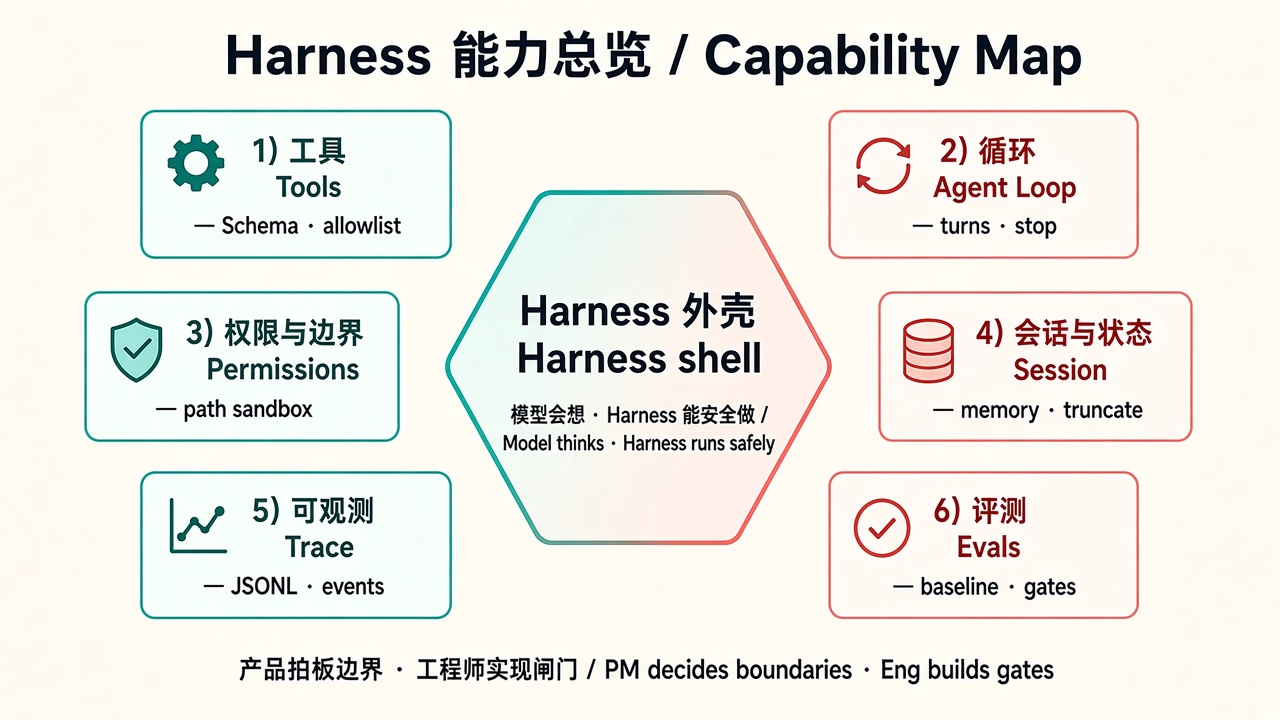
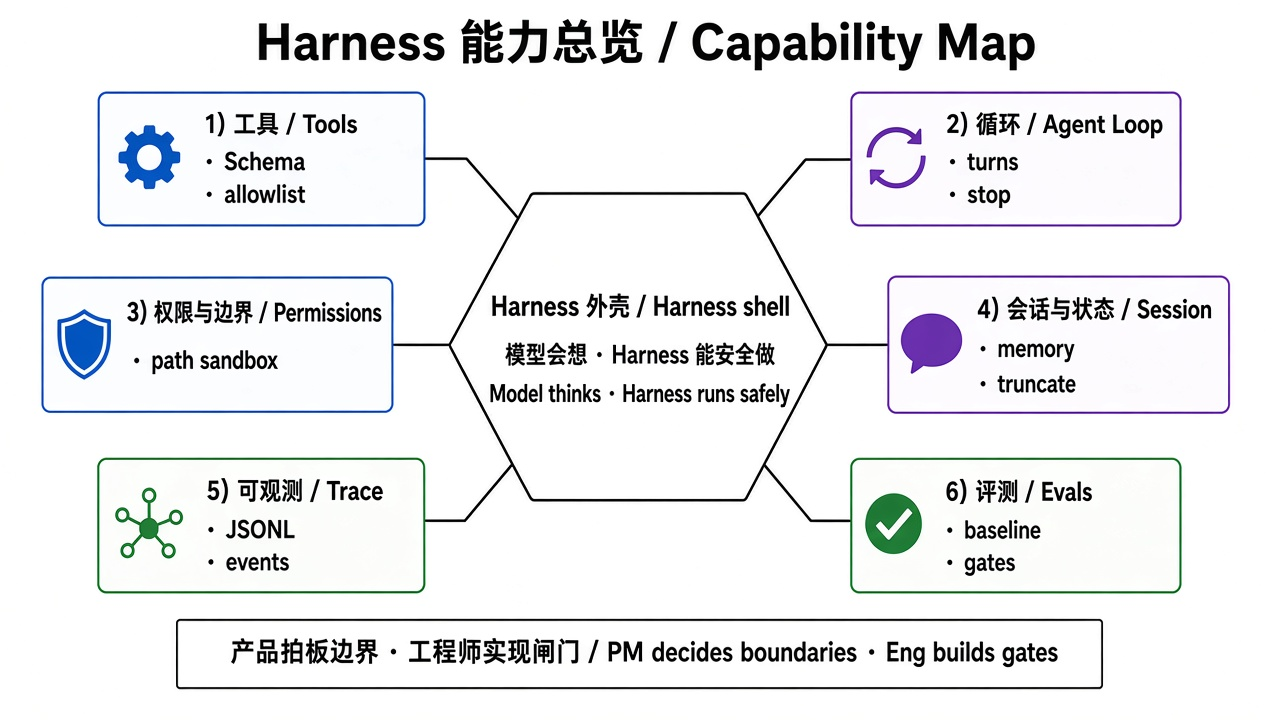
docs(lesson19): Set Continuity Clerk content-production + white bilingual diagram refresh
- Add PM note 19 (Set Continuity Clerk content-production scope)
- Link 18 to 19; README row + landing arc blurb; lock diagram style in OPEN_SOURCE
- Add skills/harness-diagram recipe (pure white, CN+EN, 16:9 flat vector)
- Refresh cream/dark assets: capability-map, tool-loop, landing, path-sandbox, trace-acceptance, hard-boundaries; add set-clerk

Changed region(s): [[0.0312, 0.0306, 0.9688, 0.9778]]

diff --git a/notes/pm-learning/19-set-clerk-content-production.md b/notes/pm-learning/19-set-clerk-content-production.md
@@ -1,0 +1,87 @@
+# 19 · 虚拟产品：片场场记 · 内容生产（Set Continuity Clerk）
+
+> 视角：产品经理 · 图解 + 费曼  
+> 日期：2026-11-01（Asia/Shanghai）  
+> 对照：课 10 落地认知 · 课 07/13 评测与 Trace 签字 · 样本栈仍为 **pi + 本地 qwen**  
+> 路线决策：加深弧 14–18 收束后，开 **落地实操弧·内容生产**——用脱敏虚拟产品练整套闸门与 eval，不接真实公司产品仓。
+
+## 一句话定义
+
+**片场场记（Set Continuity Clerk）**是公开课的虚拟项目一：面向短视频多平台分发背景（抖音 / 小红书 / 视频号），先只做 **内容生产** 前半段——选题 → 脚本 → 分镜（含角色/道具/场景）→ 分镜头提示词。Agent 只能在沙箱里调用有限技能写结构化产出；**成功 = 四个技能都能跑绿（schema + live Trace）、产出路径正确、日志可回溯**——不是「生成好看」。
+
+## 图解
+
+> 配图：**中英文配套**（CN + EN labels）。风格锁定：纯白底、扁平教材矢量（见仓库 [`skills/harness-diagram/`](../../skills/harness-diagram/SKILL.md)）。
+
+![片场场记 / Set Continuity Clerk](./assets/harness-set-clerk.jpg)
+
+```mermaid
+flowchart LR
+  Skills["Skills 技能<br/>pick_topic · draft_script<br/>draft_board · shot_prompts"] --> Gates["Harness Gates 闸门<br/>allowlist · path · HITL · budgets"]
+  Gates --> Eval["Eval Green 评测全绿<br/>schema · live Trace"]
+  Eval --> OK["Success = every skill green"]
+  Out["Out of scope 不做<br/>真上传 · 云计费 · 真品牌"] -.-> Skills
+```
+
+## 业务背景（叙事用，不全做）
+
+创作者常见流水线：
+
+选题 → 脚本 → 分镜 + 角色/道具/场景设定 → 分镜头提示词 → **镜头成片** → **后期剪辑** → **社媒文案** → **定时发布**
+
+本课与项目一弧只钉 **到分镜头提示词为止** 的内容生产；成片渲染、剪辑、真发平台、数据复盘、素材库管理留给后续弧或项目二。
+
+## 本课决策（为什么是这一步）
+
+| 选项 | 是否做 | 理由 |
+|---|---|---|
+| 虚拟产品「片场场记」 | **做** | 脱敏对齐创作者工作流；公开课可讲、可评测 |
+| 只切内容生产四技能 | **做** | 一次一弧；验收面可控 |
+| 成功标准 = 绿跑 + 路径 + Trace | **做** | 主观「好看」无法当门禁（费曼已过） |
+| 样本栈 pi + 本地 qwen | **做** | 与课 01–18 / lab05–06 连续 |
+| 真上传 / 云计费 / 真实品牌 / 真账号 | **不做** | 公开安全；Out of scope |
+| lab 技能桩实现 | **下一课** | 本课只钉产品与验收；`labs/07`（或等价）留给课 20 |
+| dsh Web Agent + 服务器沙箱 | **占坑** | 项目二形态课，不当本弧依赖 |
+
+## 要点
+
+1. **虚拟项目 ≠ 聊天 Demo**：交付物是沙箱内结构化文件（大纲 / 脚本 / 分镜 / 提示词），不是「聊得开心」。  
+2. **四个生产技能（本弧 in-scope）**：`pick_topic`、`draft_script`、`draft_board`（分镜 + 角色/道具/场景）、`shot_prompts`。  
+3. **闸门全开、形状已知**：allowlist、路径沙箱、写覆盖可 HITL、上下文/成本/延迟预算——与加深弧同一套验收语言。  
+4. **成功标准可观测**：每技能有 case；`eval:schema` + `eval:live` 全绿；Trace 证明写入规定路径；能回溯日志。  
+5. **明确不做**：真实公司品牌、云渲染计费、公网写入/真发平台、真实数据分析与素材库。
+
+## 产品拍板 vs 工程师实现
+
+| 维度 | 产品拍板 | 工程师实现（占位 → 课 20） |
+|---|---|---|
+| 先做哪段流水线 | 内容生产四步；后半成片/发布延后 | skill 名、输入 fixture、输出 schema |
+| 输出落点 | 只能进沙箱 `workspace/out/`（或等价） | 路径沙箱 + 目录约定 |
+| 覆盖已有稿 | 是否必须 HITL？ | `HITL_REQUIRED_TOOLS` 含写类技能 |
+| 成功标准 | 四技能全绿 + 路径对 + Trace 可审计 | cases + baseline + `eval:report` |
+| 公开边界 | 无真实品牌/账号/密钥 | fixture 用虚构主题 |
+
+## 对照工程
+
+- **本课**：产品定义与验收口径（本文 + 图解）；**不新增** lab 技能实现。  
+- **下一课（课 20）**：在 `labs/07-set-clerk`（名称可微调）落下四个 skill 桩、sandbox 输出路径与 schema/live case 骨架。  
+- **已有底座**：`labs/05-minimal-harness` 闸门 · `labs/06-evals` 评测形状可复用。  
+- **项目二（未来）**：dsh Web Agent + 服务器沙箱——学成熟壳与远端执行边界，另开课。
+
+## 费曼题
+
+**用一句话说清「内容生产版」片场场记的成功标准；为什么不能用「生成好看」当验收？**
+
+### 参考答（自学用）
+
+成功标准：四个生产技能都能实现并评测全绿，产出落在规定沙箱路径，且可用 Trace/日志回溯。不能用「好看」——主观无法进 CI，也证明不了闸门与路径策略仍在。
+
+## 下一步
+
+- 课 20：为四技能落 lab 桩 + schema/live 门禁骨架。  
+- 巩固：对照课 10「落地」与课 13「Trace 签字」——本课把它们收成虚拟产品 backlog。  
+- 上一课：[18 · 开源读者上手](./18-getting-started.md) · 路线总览：[README](./README.md)
+
+---
+
+**落地实操弧 · 内容生产** 从本课起：先产品与验收，再工程桩。

diff --git a/skills/harness-diagram/SKILL.md b/skills/harness-diagram/SKILL.md
@@ -1,0 +1,73 @@
+---
+name: harness-diagram
+description: >-
+  Generate or refresh bilingual CN+EN Harness Book process diagrams for
+  notes/pm-learning/assets. Use when adding a lesson figure, regenerating a
+  cream/ivory/dark diagram to the locked white textbook style, or when the user
+  asks how course diagrams should look.
+---
+
+# Harness diagram style (locked)
+
+Public course figures under `notes/pm-learning/assets/` share one locked look.
+Do **not** invent a new palette per lesson.
+
+## Required look
+
+| Rule | Value |
+|---|---|
+| Background | **Pure white** `#FFFFFF` — never cream, ivory, beige, parchment, or dark navy |
+| Style | Flat vector textbook / educational infographic |
+| Aspect | **16:9** (typical 1280×720) |
+| Language | **Bilingual CN + EN** on every box, title, and footer |
+| Accents | Blue (tools/inputs), purple (gates/control), green (eval/success) |
+| Contrast | High; dark text on white; thin black connectors |
+| Icons | Simple flat line/fill icons matching box color |
+| Forbidden | Photorealism, heavy drop shadows, 3D clay, noisy textures, brand logos of real companies |
+
+## Prompt skeleton (copy & fill)
+
+```text
+Flat vector textbook process diagram, PURE WHITE background #FFFFFF, 16:9,
+high contrast, bilingual CN+EN labels on EVERY box and title.
+Title: <中文标题> / <English Title>.
+Layout: <left-to-right stages | hub-and-spoke | checklist>.
+Stage/boxes:
+  1) <blue> <CN/EN labels + bullets>
+  2) <purple> ...
+  3) <green> ...
+Optional success banner (green check): <Success = ... / 成功 = ...>
+Optional dashed Out of scope / 不做: <items>
+No cream/beige/ivory/dark background, no photorealism, no heavy shadows,
+clean sans-serif, flat icons only.
+```
+
+Pass a recent good figure (e.g. `harness-set-clerk.jpg`) as `reference_image_paths` when regenerating so style stays stable.
+
+## Do / Don't
+
+**Do**
+
+- Keep filenames stable (`harness-<topic>.jpg`) so markdown links keep working
+- Match the lesson's taught terms (skill names, `stop_reason` codes)
+- Prefer regenerating cream/ivory/dark legacy art over leaving mixed styles
+
+**Don't**
+
+- Put real company brands, private product names, secrets, or absolute home paths in art
+- Use warm paper backgrounds "for warmth"
+- Ship English-only or Chinese-only boxes
+
+## Where files live
+
+- Assets: `notes/pm-learning/assets/harness-*.jpg`
+- Lesson notes reference them with relative `./assets/...` paths
+- Style note also recorded in `OPEN_SOURCE.md` (diagram style locked)
+
+## Acceptance checklist
+
+- [ ] Pure white background (corner sample ≈ 255,255,255)
+- [ ] Every major label has CN and EN
+- [ ] 16:9 flat vector
+- [ ] Topic matches the lesson markdown
+- [ ] Filename unchanged if replacing

diff --git a/notes/pm-learning/README.md b/notes/pm-learning/README.md
@@ -29,9 +29,12 @@
 | 16 | [16-hitl-gate.md](./16-hitl-gate.md) | 人机确认闸门（HITL Confirm Gate） | 已完成 |
 | 17 | [17-cost-latency.md](./17-cost-latency.md) | 成本与延迟预算（Cost & Latency Budget） | 已完成 |
 | 18 | [18-getting-started.md](./18-getting-started.md) | 开源读者上手（Clone → green baseline） | 已完成 |
+| 19 | [19-set-clerk-content-production.md](./19-set-clerk-content-production.md) | 虚拟产品：片场场记 · 内容生产（Set Continuity Clerk） | 已完成 |
 
 对照仓库主线：根目录 [`README.md`](../../README.md)、[`OPEN_SOURCE.md`](../../OPEN_SOURCE.md)、`notes/course-plan.md`、`notes/glossary.md`，以及 `labs/01`–`labs/06`。
 
 开源入口：先读仓库根 README（**写给大家看的 Harness 书**）；本目录是 **PM 图解课表**。
-> **加深弧 14–18**：上下文预算 → 重试降级 → HITL → 成本/延迟 → **开源上手文档**。到课 18，读者应能独立把基线跑绿。后续开新主题弧，不重复本弧闸门。
+> **加深弧 14–18**：上下文预算 → 重试降级 → HITL → 成本/延迟 → **开源上手文档**。到课 18，读者应能独立把基线跑绿。
+>
+> **落地实操弧·内容生产（从课 19）**：虚拟产品「片场场记」先钉内容生产四技能与验收口径；技能桩与 lab 实现从课 20 起。图解风格锁定见 [`skills/harness-diagram/`](../../skills/harness-diagram/SKILL.md)（纯白底、中英双语、16:9 扁平教材矢量）。
 

diff --git a/notes/pm-learning/18-getting-started.md b/notes/pm-learning/18-getting-started.md
@@ -127,10 +127,11 @@ npm run eval:report
 
 ## 下一步
 
+- 下一课：[19 · 片场场记 · 内容生产](./19-set-clerk-content-production.md)（落地实操弧起点）。  
 - 从 [`01 · 能力总览`](./01-capability-overview.md) 按课表读；或从 [`14 · 上下文预算`](./14-context-budget.md) 复习加深弧。  
 - 改 Harness 前：先跑本课三条命令，再谈 Done。  
 - 上一课：[17 · 成本与延迟预算](./17-cost-latency.md) · 路线总览：[README](./README.md)
 
 ---
 
-**加深弧 14–18 完成。** 后续若续写，应是新主题弧（例如异步 HITL 恢复、真实计费对接），而不是重复本弧闸门。
+**加深弧 14–18 完成。** 下一弧是 **落地实操·内容生产**（课 19 起，虚拟产品「片场场记」），不重复本弧闸门课。

diff --git a/OPEN_SOURCE.md b/OPEN_SOURCE.md
@@ -26,3 +26,14 @@
 - 含真实密钥、cookie、SSH、浏览器配置的任何文件  
 - 公司产品名、内部代号、私人邮箱  
 - `/home/<yourname>/...` 绝对路径（用 `<repo-root>`）
+
+## Diagram style locked / 图解风格锁定
+
+PM 课表配图（`notes/pm-learning/assets/harness-*.jpg`）统一为：
+
+- 纯白底（`#FFFFFF`），禁止奶油/米黄/深色底
+- 中英双语标签、16:9、扁平教材矢量
+- 配方与提示词骨架：`skills/harness-diagram/SKILL.md`
+
+新增或重绘图解前先读该 skill；替换文件时保持文件名不变。
+
